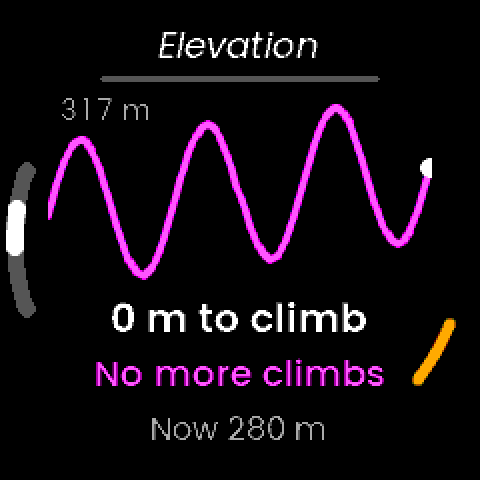
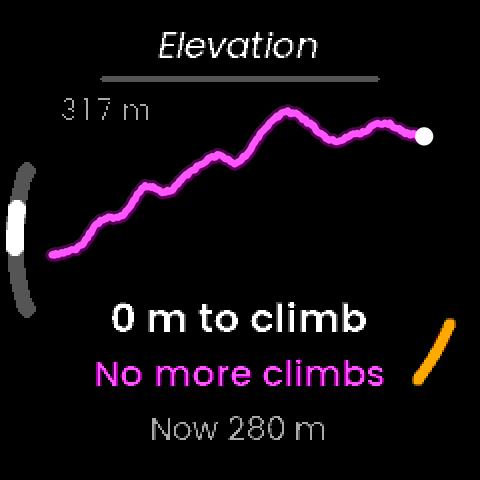
Give X Trail's map and climbs screens a realistic route
The simulator's test route is a straight double line and a sine wave.
Redraw just the route and the elevation profile on those two screens, in
the watch's own colours, leaving every other pixel as the app drew it.
The script that does it is kept so the retouch can be repeated.

Claude-Session: https://claude.ai/code/session_01CNkC8Li5t7fJKxUk43G1fk

Changed region(s): [[0.0938, 0.2188, 0.9062, 0.5938]]

diff --git a/scripts/una-trail-screens.py b/scripts/una-trail-screens.py
@@ -1,0 +1,74 @@
+"""Redraw the route on X Trail's map screen and the profile on its elevation
+screen (public/una/screens/trail/) so they look like a real trail rather than
+the simulator's test loop. Everything else on each screen is the app's own
+pixels, kept as they are; the new lines use the watch's own two colours."""
+import sys, random
+import numpy as np
+from PIL import Image, ImageDraw
+
+SRC, OUT = sys.argv[1], sys.argv[2]
+CORE, HALO = (255, 85, 255), (85, 0, 85)
+K = 4  # supersample
+
+def spline(pts, n=24):
+    out = []
+    p = [pts[0]] + pts + [pts[-1]]
+    for i in range(1, len(p) - 2):
+        p0, p1, p2, p3 = p[i - 1], p[i], p[i + 1], p[i + 2]
+        for t in np.linspace(0, 1, n, endpoint=False):
+            out.append(tuple(0.5 * ((2 * p1[k]) + (-p0[k] + p2[k]) * t + (2 * p0[k] - 5 * p1[k] + 4 * p2[k] - p3[k]) * t * t
+                                    + (-p0[k] + 3 * p1[k] - 3 * p2[k] + p3[k]) * t ** 3) for k in (0, 1)))
+    out.append(pts[-1])
+    return out
+
+def stroke(size, line, dots=()):
+    big = Image.new('RGBA', (size * K, size * K), (0, 0, 0, 0))
+    d = ImageDraw.Draw(big)
+    for colour, w in ((HALO, 13), (CORE, 7)):
+        q = [(x * K, y * K) for x, y in line]
+        d.line(q, fill=colour + (255,), width=w * K, joint='curve')
+        for x, y in (q[0], q[-1]):
+            d.ellipse([x - w * K / 2, y - w * K / 2, x + w * K / 2, y + w * K / 2], fill=colour + (255,))
+    for (x, y, r, colour) in dots:
+        d.ellipse([(x - r) * K, (y - r) * K, (x + r) * K, (y + r) * K], fill=colour + (255,))
+    return big.resize((size, size), Image.LANCZOS)
+
+def rebuild(name, box, line, dots, keep):
+    im = Image.open(f'{SRC}/{name}.png').convert('RGB')
+    a = np.array(im)
+    x0, y0, x1, y1 = box
+    region = a[y0:y1, x0:x1]
+    r, g, b = (region[..., i].astype(int) for i in range(3))
+    drop = ~keep(r, g, b)
+    region[drop] = 0
+    base = Image.fromarray(a).convert('RGBA')
+    layer = stroke(im.size[0], line, dots)
+    # only inside the round display
+    mask = Image.new('L', im.size, 0)
+    ImageDraw.Draw(mask).ellipse([6, 6, im.size[0] - 6, im.size[1] - 6], fill=255)
+    layer.putalpha(Image.composite(layer.getchannel('A'), Image.new('L', im.size, 0), mask))
+    # the app's own text and marks stay on top of the line
+    ui = np.array(base)
+    ui_mask = (ui[..., :3].sum(axis=2) > 60)
+    out = Image.alpha_composite(base, layer)
+    o = np.array(out)
+    o[ui_mask] = ui[ui_mask]
+    Image.fromarray(o).convert('RGB').save(f'{OUT}/{name}.png', optimize=True)
+
+random.seed(7)
+
+# Map: a trail that wanders, from the start marker down past the runner.
+trail = spline([(353, 190), (334, 218), (351, 252), (338, 281), (311, 296), (322, 331), (346, 352),
+                (352, 383), (333, 404), (344, 432), (366, 446), (356, 492)])
+rebuild("map", (322, 172, 376, 466), trail, [(353, 190, 12, (170, 255, 0))],
+        keep=lambda r, g, b: (r < 0))  # nothing in the old route's box is kept
+
+# Elevation: a long stepped climb to the top, a col, and a short drop to now.
+prof = [(0, .08), (.07, .13), (.13, .30), (.19, .34), (.25, .52), (.31, .49), (.37, .61), (.44, .72),
+        (.50, .68), (.57, .88), (.63, 1.0), (.69, .93), (.75, .82), (.82, .86), (.89, .93), (.95, .87), (1, .84)]
+X0, X1, YT, YB = 52, 424, 112, 268
+pts = spline([(X0 + f * (X1 - X0), YB - h * (YB - YT)) for f, h in prof], n=14)
+pts = [(x, y + random.uniform(-1.6, 1.6)) for x, y in pts]
+end = pts[-1]
+rebuild('elevation', (40, 96, 440, 284), pts, [(end[0], end[1], 9, (255, 255, 255))],
+        keep=lambda r, g, b: (r > 100) & (g > 100) & (b > 100) & (np.indices(r.shape)[1] < 150) & (np.indices(r.shape)[0] < 40))

diff --git a/CLAUDE.md b/CLAUDE.md
@@ -181,3 +181,8 @@ is the method and its references. The apps live in `xhybrid-dev/una-hyrox`.
 - Watch screens in `public/una/screens/` are the apps' store previews
   (`<app>/Resources/previews/` in the watch repo); icons are the 1024 px brand
   masters, resized.
+  - **Two are retouched:** X Trail's `map.png` and `elevation.png`. The
+    simulator's test route is a straight double line and a sine wave, which
+    did not look like a trail (Jon, 10 November 2026). `scripts/una-trail-screens.py
+    <previews dir> public/una/screens/trail` redraws only the route and the
+    profile, in the watch's own colours; every other pixel is the app's.
